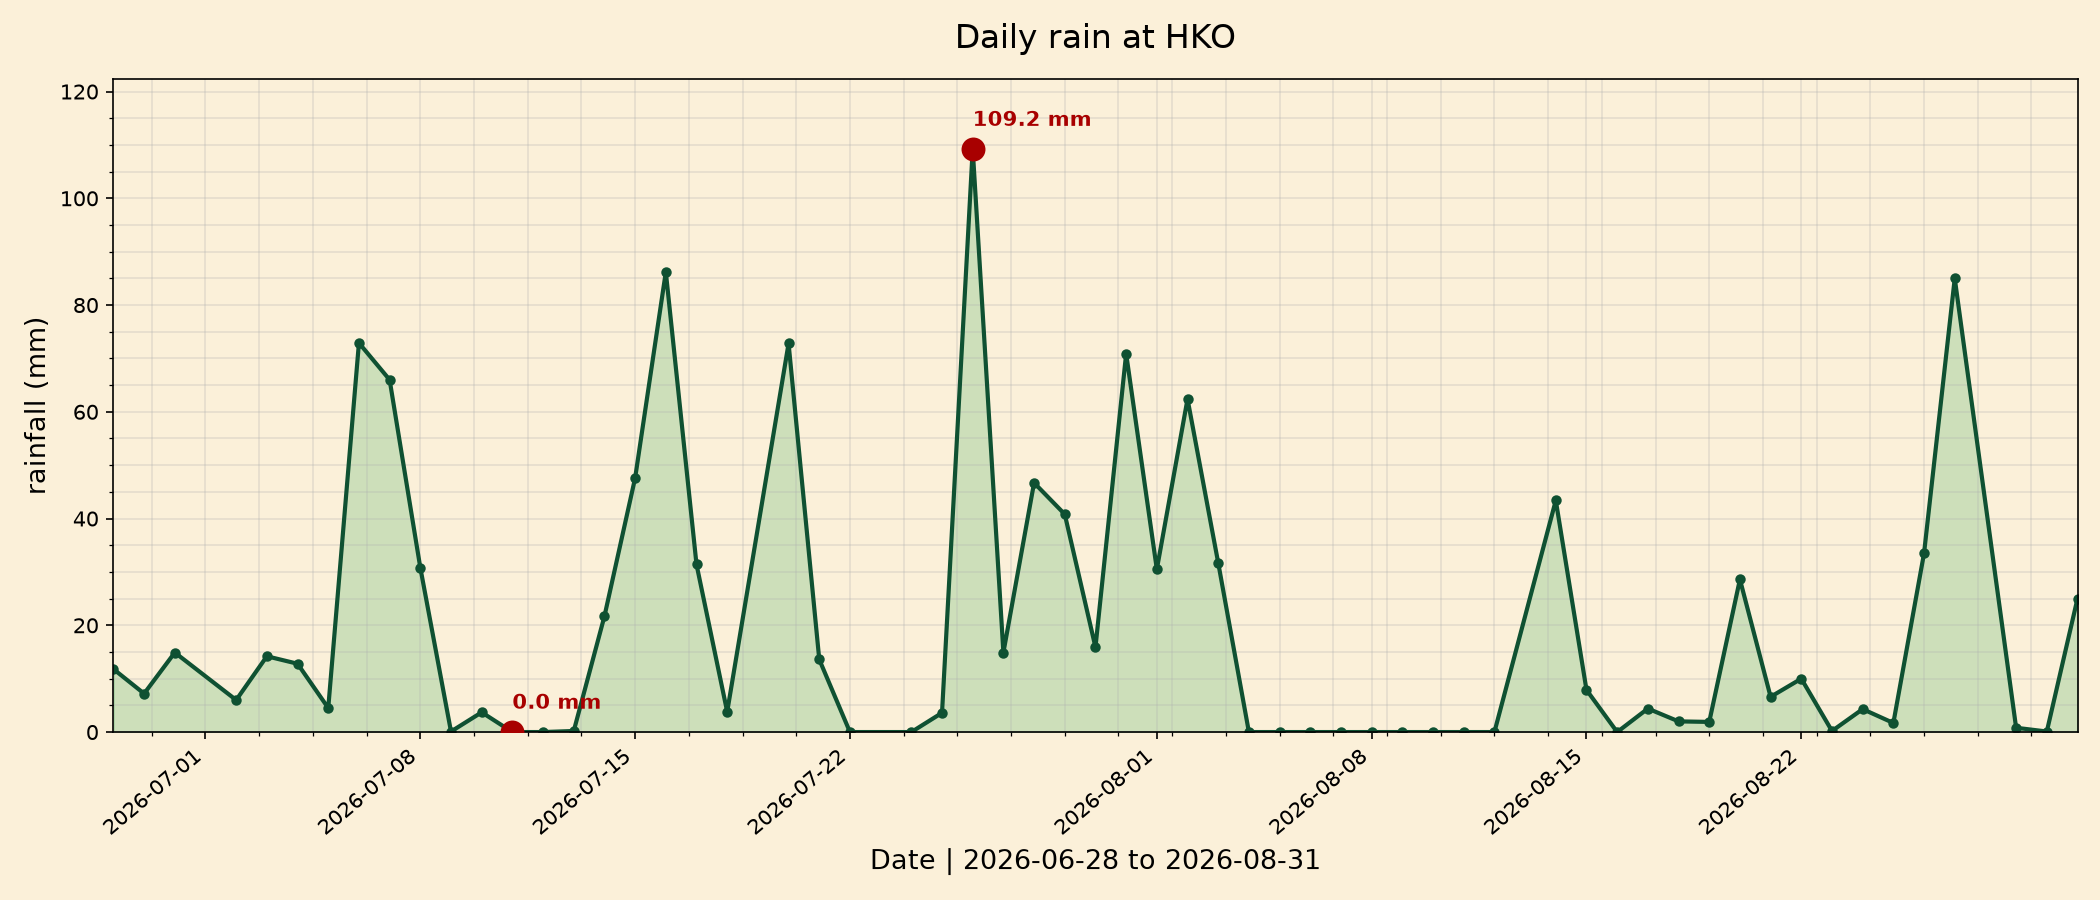
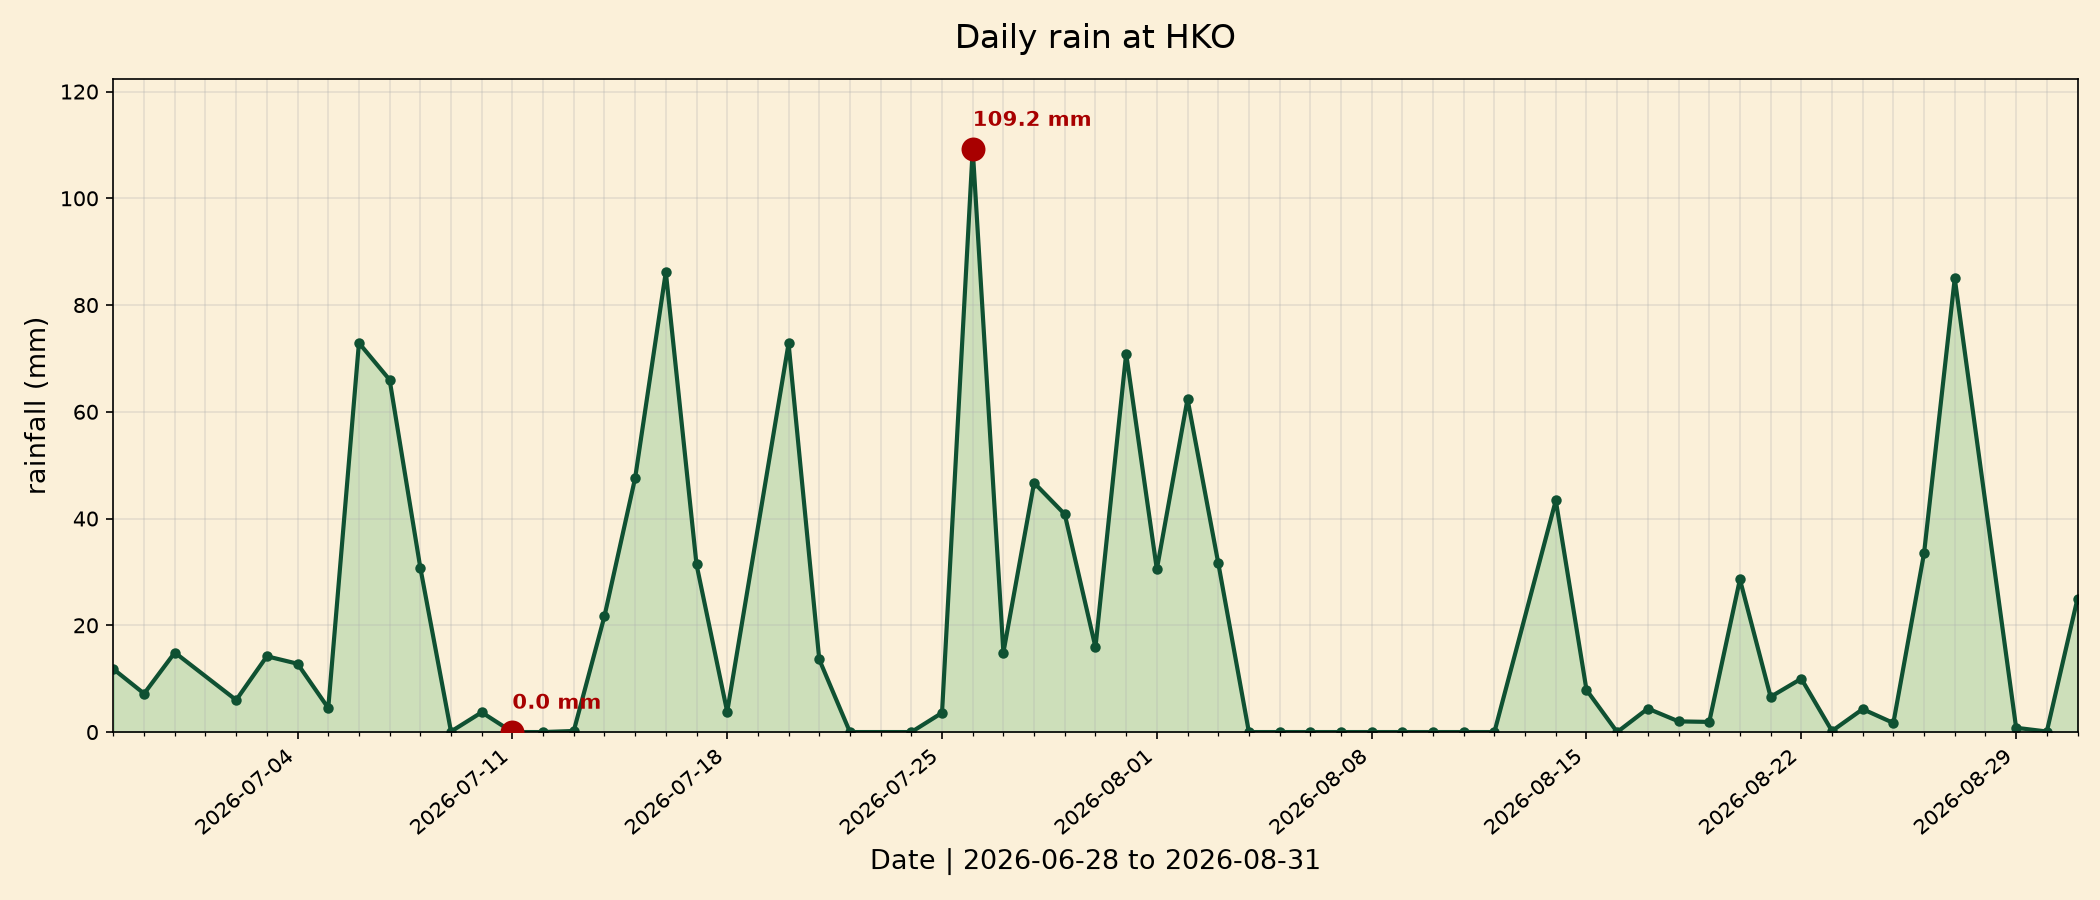
Fix grid alignment: day locator, grid matches every data point

diff --git a/plot.py b/plot.py
@@ -75,15 +75,19 @@ def main():
     ax.set_xlabel(f"Date | {start_date} to {end_date}", fontsize=13)
     ax.set_ylabel("rainfall (mm)", fontsize=13)
 
-    # ========== 增加网格线：主网格+次网格，刻度更多 ==========
-    ax.grid(True, which="both", alpha=0.3, linestyle="-")
-    ax.minorticks_on()
+    # X轴：主刻度每7天，文字加粗；次刻度每天一条细线，网格和日期对齐
+    ax.xaxis.set_major_locator(mdates.DayLocator(interval=7))
+    ax.xaxis.set_major_formatter(mdates.DateFormatter("%Y-%m-%d"))
+    ax.xaxis.set_minor_locator(mdates.DayLocator(interval=1))
 
-    # X轴日期格式 YYYY-MM-DD
-    locator = mdates.AutoDateLocator(minticks=8, maxticks=14)
-    formatter = mdates.DateFormatter("%Y-%m-%d")
-    ax.xaxis.set_major_locator(locator)
-    ax.xaxis.set_major_formatter(formatter)
+    # 网格：主网格粗一点，次网格细一点
+    ax.grid(True, which="major", alpha=0.4, linestyle="-", linewidth=1.0)
+    ax.grid(True, which="minor", alpha=0.2, linestyle="-", linewidth=0.4)
+
+    # ✅ 加粗X轴主刻度文字，加大字号，让日期坐标清晰
+    for label in ax.get_xticklabels(which="major"):
+        label.set_fontweight("bold")
+        label.set_fontsize(11)
 
     plt.setp(ax.get_xticklabels(), rotation=40, ha="right")
     ax.margins(x=0, y=0)
@@ -93,7 +97,7 @@ def main():
     plt.tight_layout()
     plt.savefig(img_path, dpi=150)
     plt.show()
-    print("✅ Chart saved with more grid ticks.")
+    print("✅ Chart saved, major x-axis date labels are bold.")
 
 if __name__ == "__main__":
     main()
